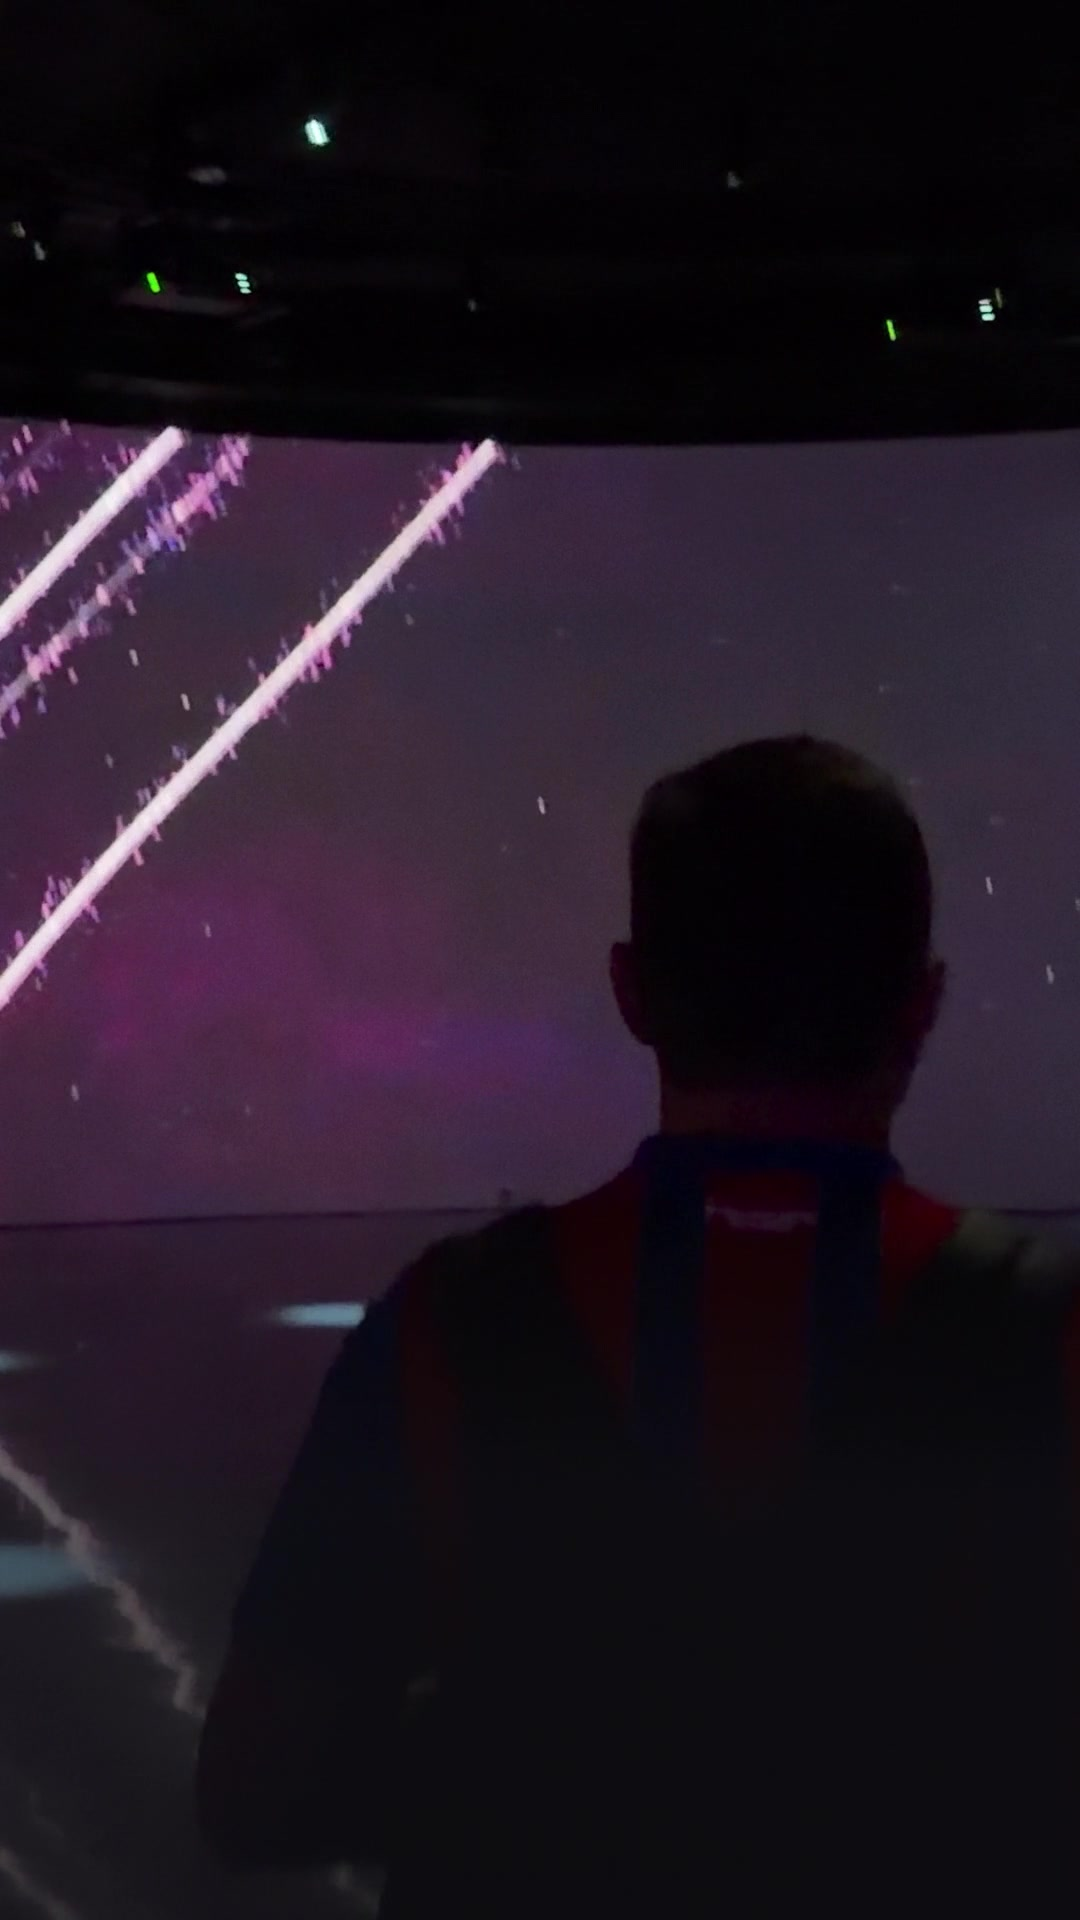
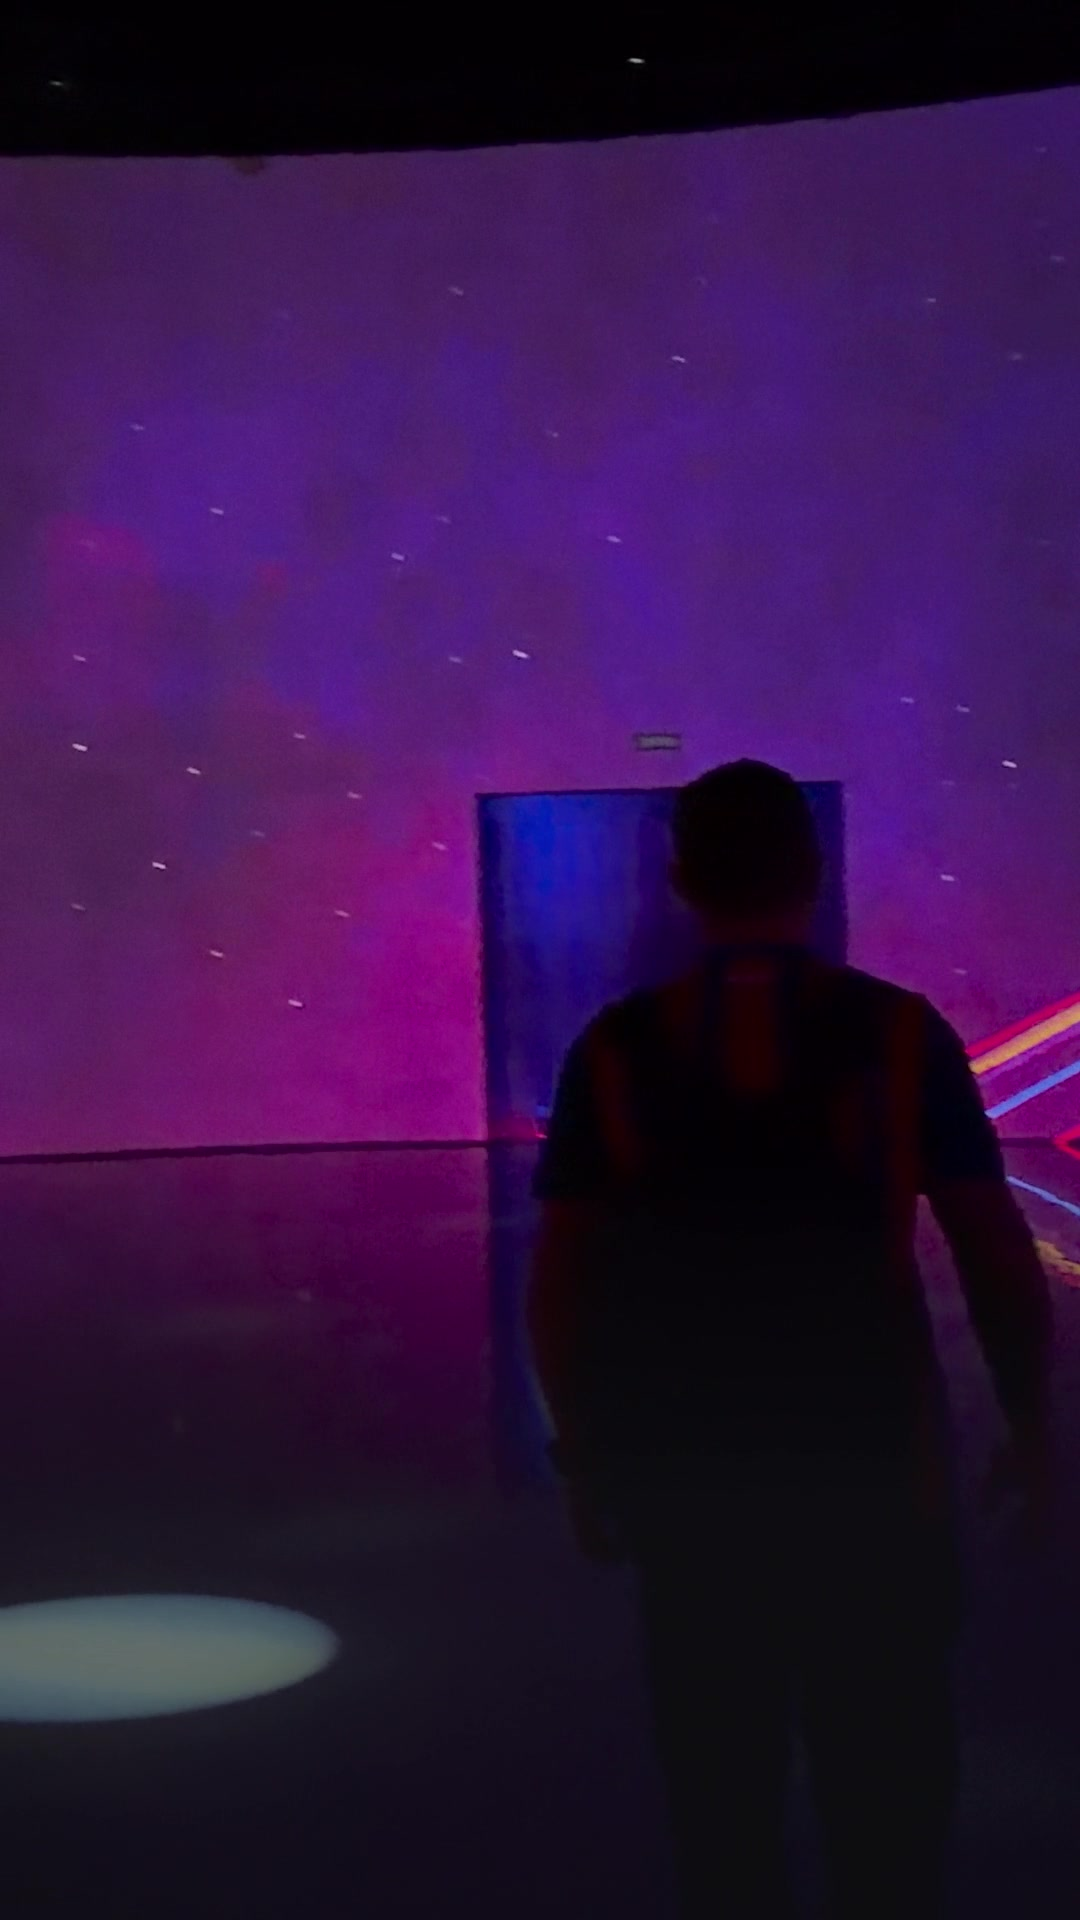
fix(reel-bahia): take andando mais estável e 1 s mais longo (IMG_0537 26–30 s)
Claude-Session: https://claude.ai/code/session_013wMMhRerBzmbda97gbmPHk

diff --git a/reels/bahia-camp-nou/scripts/medir_tremor.py b/reels/bahia-camp-nou/scripts/medir_tremor.py
@@ -1,0 +1,42 @@
+"""Tremor de câmera por janela: deslocamento global quadro a quadro (correlação de fase em cinza 480 px) e o resíduo
+de alta frequência (deslocamento menos a média móvel de 0,5 s), em px de um quadro 1080 de largura. Rodar de reels/bahia-camp-nou/.
+
+Uso: python3 scripts/medir_tremor.py JANELA_S ARQ [ARQ ...]
+"""
+import subprocess
+import sys
+
+import numpy as np
+from scipy import ndimage
+
+jan = float(sys.argv[1])
+for arq in sys.argv[2:]:
+    r = subprocess.run(["ffmpeg", "-v", "error", "-i", f"fonte/brutos/{arq}", "-vf", "scale=480:-2,format=gray", "-f",
+                        "rawvideo", "-"], capture_output=True, check=True)
+    pr = subprocess.run(["ffprobe", "-v", "error", "-select_streams", "v:0", "-show_entries", "stream=width,height,r_frame_rate",
+                         "-of", "csv=p=0"], input=None, capture_output=True, text=True)
+    w = 480
+    n = len(r.stdout)
+    h = None
+    for hh in (270, 853, 854, 852):
+        if n % (w * hh) == 0:
+            h = hh
+            break
+    q = np.frombuffer(r.stdout, np.uint8).reshape(-1, h, w).astype(np.float32)
+    win = np.outer(np.hanning(h), np.hanning(w))
+    d = []
+    for a, b in zip(q[:-1], q[1:]):
+        A, B = np.fft.fft2((a - a.mean()) * win), np.fft.fft2((b - b.mean()) * win)
+        c = np.fft.ifft2(A * np.conj(B) / (np.abs(A * np.conj(B)) + 1e-6)).real
+        y, x = np.unravel_index(np.argmax(c), c.shape)
+        d.append((x if x < w / 2 else x - w, y if y < h / 2 else y - h))
+    d = np.array(d, np.float32) * (1080 / w)
+    pos = np.cumsum(d, 0)
+    res = pos - ndimage.uniform_filter1d(pos, 12, axis=0)
+    fps = 24
+    k = int(jan * fps)
+    out = []
+    for i in range(0, len(res) - k, 6):
+        out.append((i / fps, float(np.sqrt((res[i:i + k] ** 2).sum(1).mean())), float(np.abs(d[i:i + k]).mean())))
+    out.sort(key=lambda x: x[1])
+    print(arq, f"{len(q) / fps:.1f}s", "melhores:", " ".join(f"{t:.2f}s(trem {j:.1f}, mov {m:.1f})" for t, j, m in out[:6]))

diff --git a/reels/bahia-camp-nou/rev1/QA_REV1.md b/reels/bahia-camp-nou/rev1/QA_REV1.md
@@ -13,7 +13,7 @@
 | `rev1/rev1.json` · `rev1/scripts/rev1.py` · `rev1/scripts/capa.py` | Projeto reproduzível (cortes, textos, áudio, tokens) |
 | `rev1/relatorio_tecnico_rev1.json` · `rev1/qa_frames/` | Medidas, quadros de QA, folha de contato, miniatura, emenda do loop |
 
-**Formato:** 1080 × 1920, 24 fps, 469 quadros = 19,542 s (vídeo e áudio iguais), H.264 High (CRF 16, preset slow), yuv420p, BT.709, AAC 48 kHz 192 kbps estéreo, 49,4 MB (≈ 20 Mbit/s), sem marca d'água. Áudio: −14,0 LUFS integrados, pico verdadeiro −1,3 dBTP.
+**Formato:** 1080 × 1920, 24 fps, 493 quadros = 20,542 s (vídeo e áudio iguais), H.264 High (CRF 16, preset slow), yuv420p, BT.709, AAC 48 kHz 192 kbps estéreo, 52,9 MB (≈ 21 Mbit/s), sem marca d'água. Áudio: −14,0 LUFS integrados, pico verdadeiro −1,4 dBTP.
 
 **Como renderizar** (de dentro de `reels/bahia-camp-nou/`, com os brutos em `fonte/brutos/`):
 ```bash
@@ -29,12 +29,12 @@ Todos são brutos 4K HLG originais da pasta Barcelona do Drive: 3840 × 2160 ou 
 | # | Reel (s) | Cena | Bruto | Trecho no bruto (s) | Recorte 9:16 (x no 4K) | Fala |
 |---|---|---|---|---|---|---|
 | 1 | 0,000–4,250 | Gancho | IMG_0552 | 5,040–9,290 | 1618 (1214 × 2158) | "eu tô com a camisa do maior clube do mundo, o Esporte Clube Bahia." |
-| 2 | 4,250–7,250 | Dentro do museu | IMG_0537 | 12,400–15,400 | 1542 | — (ambiente da sala imersiva) |
-| 3 | 7,250–9,417 | Bola de Ouro | IMG_0513 | 0,920–3,087 | 658 | "É a bola de ouro de Ronaldinho Gaúcho, velho." |
-| 4 | 9,417–10,625 | Bola de Ouro (close) | IMG_0513 | 4,900–6,108 | 1388 | — |
-| 5 | 10,625–13,042 | Pico (a) | IMG_0552 | 16,050–18,467 | 1312 | "o funcionário aqui do Museu do Barcelona," |
-| 6 | 13,042–18,917 | Pico (b) | IMG_0552 | 21,020–26,895 | 1426 | "o Diego tirou o casaco e ele fez assim, ah, Bahia. Aí eu fiquei tipo, como é que ele sabe? Bahia é o mundo." |
-| 7 | 18,917–19,542 | Loop | IMG_0552 | 4,415–5,040 | 1618 | — (pausa sem fala) |
+| 2 | 4,250–8,250 | Dentro do museu | IMG_0537 | 26,000–30,000 | 1426 | — (som da sala imersiva) |
+| 3 | 8,250–10,417 | Bola de Ouro | IMG_0513 | 0,920–3,087 | 658 | "É a bola de ouro de Ronaldinho Gaúcho, velho." |
+| 4 | 10,417–11,625 | Bola de Ouro (close) | IMG_0513 | 4,900–6,108 | 1388 | — |
+| 5 | 11,625–14,042 | Pico (a) | IMG_0552 | 16,050–18,467 | 1312 | "o funcionário aqui do Museu do Barcelona," |
+| 6 | 14,042–19,917 | Pico (b) | IMG_0552 | 21,020–26,895 | 1426 | "o Diego tirou o casaco e ele fez assim, ah, Bahia. Aí eu fiquei tipo, como é que ele sabe? Bahia é o mundo." |
+| 7 | 19,917–20,542 | Loop | IMG_0552 | 4,415–5,040 | 1618 | — (pausa sem fala) |
 
 Os tempos exatos de cada plano (em quadros) estão em `relatorio_tecnico_rev1.json`, campo `planos`.
 
@@ -53,23 +53,24 @@ Os tempos exatos de cada plano (em quadros) estão em `relatorio_tecnico_rev1.js
 | 13/10 | "primeira parada" logo no primeiro quadro | Narrativa aberta desde o quadro 0, durante todo o gancho |
 | 13/10 | Tirar a vinheta (placa entrando) | Placa removida (versão intermediária, não entregue) |
 | 13/10 | Trocar a cena andando do lado de fora por uma dentro do museu | IMG_0502 → IMG_0537 (sala imersiva) |
+| 13/10 | Take andando mais estável e 1 s mais longo | IMG_0537 12,4–15,4 s → 26,0–30,0 s (4 s). Tremor medido com `scripts/medir_tremor.py`: 2,7 px contra 3,7 do trecho anterior (e mais de 7 se só esticasse). O IMG_0541 (36–40 s, 1,7) era mais estável, mas o Diego aparece só como silhueta escura |
 | 13/10 | Placa de volta, em cima, sem cobrir o rosto, com "Primeiro dia em Barcelona" + "Primeira parada: o Barça!", dentro do DS | Placa variante Abertura `PRIMEIRO DIA EM / BARCELONA` com Chegada no quadro 0, em x 72 · y 296; "Primeira parada: o Barça!" na Narrativa (vidro), junto, desde o quadro 0 |
 
 ## Camada visual (DS V2, Nível B)
 
 - **Placa (ativo nº 1), variante Abertura:** `PRIMEIRO DIA EM` (label: Condensed 600 36 px, +8%) / `BARCELONA` (h1: Condensed 800 128 px, entrelinha 0,9), padding 28 × 36, filete, rebites, grão e sombra da REV8. Módulo de seta com lado = altura do conteúdo (219 px). Largura 849 px (máx. 872), em x 72–921 · y 296–515. Chegada (560 ms + brilho de esmalte) no quadro 0, parada durante o gancho, saída pela direita em 240 ms terminando no corte de 4,25 s. É o 1 objeto de marca do Nível B.
 - **Legenda Padrão:** Barlow 700 56 px, `#FCFBF8`, sem caixa, sombra de texto, scrim grafite 0 → 63% de y 1150 a 1500, centralizada em x 540, base em y 1420. São 13 grupos de 2 a 5 palavras, com no máximo 22 caracteres por linha e 1 linha cada. A entrada é palavra a palavra quando a fala tem até 3 palavras/s; acima disso, entra o grupo inteiro (DS 3.3, freio 4).
-- **Destaque:** mini-placa em "Bahia" (gancho) e em "mundo" (pico). Ela pula quando a palavra é dita. Há 2 destaques em 19,5 s, nunca dois em menos de 3 s.
+- **Destaque:** mini-placa em "Bahia" (gancho) e em "mundo" (pico). Ela pula quando a palavra é dita. Há 2 destaques em 20,5 s, nunca dois em menos de 3 s.
 - **Narrativa** ("Primeira parada: o Barça!"): Barlow 500 44 px sobre vidro (grafite 55% + desfoque 24 px + filete de 1 px), x 72, 1 linha, caixa em y 1223–1332. Já aberta no quadro 0 e até o corte de 4,25 s.
 - **Grão:** 5% no vídeo inteiro.
-- **Transições:** só cortes secos, sem efeitos e sem música.
+- **Transições:** só cortes secos, sem efeitos e sem música adicionada.
 - **Implementação:** placa, legenda, mini-placa, scrim e grão vêm do código aprovado da REV8 do Reel de apresentação. Valores em `rev1.json` (bloco `tokens`, cópia dos tokens V2).
 - **Cor:** HLG → SDR com o mesmo tone mapping do Reel de apresentação (Reinhard, pico 4,93, saturação 0,88).
 
 ## Áudio
 
 - **Origem:** som direto da faixa AAC 0 de cada bruto, com passa-altas de 80 Hz e redução de ruído leve (`afftdn` 6 dB). O atraso de 25 ms do filtro foi compensado (1197 amostras).
-- **Ganho por grupo:** a voz vai a −16 LUFS antes do master, e o ambiente do museu a −24 LUFS. Ganhos aplicados: gancho +5,5 dB, museu (fala) +2,8 dB, Marina +6,8 dB, ambiente da sala imersiva +2,9 dB.
+- **Ganho por grupo:** a voz vai a −16 LUFS antes do master, e o ambiente do museu a −24 LUFS. Ganhos aplicados: gancho +5,5 dB, museu (fala) +2,8 dB, Marina +6,8 dB, ambiente da sala imersiva −5,5 dB (o trecho é alto, com o som da própria instalação).
 - **Emendas:** de 20 ms, potência constante.
 - **Master:** −14 LUFS integrados e pico verdadeiro ≤ −1 dBTP (DS 4.6), com limitador de 5 ms nos picos.
 - **Música:** nenhuma. Os brutos não têm violão embutido, só o som ambiente real. Na sala imersiva (plano 2) há o som da própria instalação.
@@ -77,8 +78,8 @@ Os tempos exatos de cada plano (em quadros) estão em `relatorio_tecnico_rev1.js
 
 ### A conferir de ouvido (Diego)
 1. **Gancho:** "eu **tô** com a camisa" ou "eu **estou**". No bruto cru, medium e large-v3 leem "tô". No áudio processado e no master, o medium leu "estou". A legenda está com "tô".
-2. **Pico (b), 13,0–13,9 s:** "o Diego **tirou** o casaco". A Marina fala baixo aqui. O large-v3 lê "tirou" no bruto, mas no render os modelos leem "despegou" e "deve ter".
-3. **Pico (b), 16,9–18,0 s:** "como é que **ele sabe**?". O large-v3 leu "ele sabe"; o medium no render, "é isso".
+2. **Pico (b), 14,0–14,9 s:** "o Diego **tirou** o casaco". A Marina fala baixo aqui. O large-v3 lê "tirou" no bruto, mas no render os modelos leem "despegou" e "deve ter".
+3. **Pico (b), 17,9–19,0 s:** "como é que **ele sabe**?". O large-v3 leu "ele sabe"; o medium no render, "é isso".
 
 ## Divergências e exceções (registradas)
 
@@ -86,7 +87,7 @@ Os tempos exatos de cada plano (em quadros) estão em `relatorio_tecnico_rev1.js
 2. **Narrativa em y 1332** (DS 3.2: base em y 1420). É exceção deste Reel. A legenda Padrão do gancho também tem base em y 1420; o vidro fica logo acima para as duas não se sobreporem.
 3. **Narrativa no gancho, junto com a placa.** O DS 5.2 põe a placa no hook e a Narrativa no contexto (2–5 s), depois que a placa sai. Aqui as duas ficam juntas de 0 a 4,25 s, a pedido do Diego. O DS permite placa e legenda ao mesmo tempo (2.1, "Como combinar").
 4. **Módulo de seta de 219 px** (lado = altura do conteúdo, como no bundle). O "≈ 176 px" do DS segue em aberto (CLAUDE.md, pendência 3). Vale para o Reel e para a capa.
-5. **Duração:** 19,5 s, contra os ~24 s do pedido. Não acelerei falas. O gancho falado tem 4,1 s; os 0–2,5 s do pedido não cabem sem cortar a frase.
+5. **Duração:** 20,5 s, contra os ~24 s do pedido. Não acelerei falas. O gancho falado tem 4,1 s; os 0–2,5 s do pedido não cabem sem cortar a frase.
 6. **Gancho escrito:** a fala do gancho tem 13 palavras em 3 grupos. O DS 5.1 fala em até 7 palavras no gancho escrito, e aqui o texto é a transcrição da fala.
 7. **"velho,"** fica no áudio e sai da legenda: com ele, a linha teria 28 caracteres (DS 3.2: máx. 26), e a quebra partiria o nome.
 8. **Capa:** placa de 2 linhas `BAHIA NO` / `CAMP NOU` na mesma posição do Reel (x 72 · y 296), dentro da área 3:4 do grid, deixando livres o rosto e o escudo. Em uma linha só, "BAHIA NO CAMP NOU" a 104 px daria 1016 px, acima do máximo de 872. No grid, "CAMP NOU" lê bem; "BAHIA NO" (36 px, fixo no DS) fica pequeno na miniatura de 8%, e o "Bahia" aparece no escudo da camisa.
